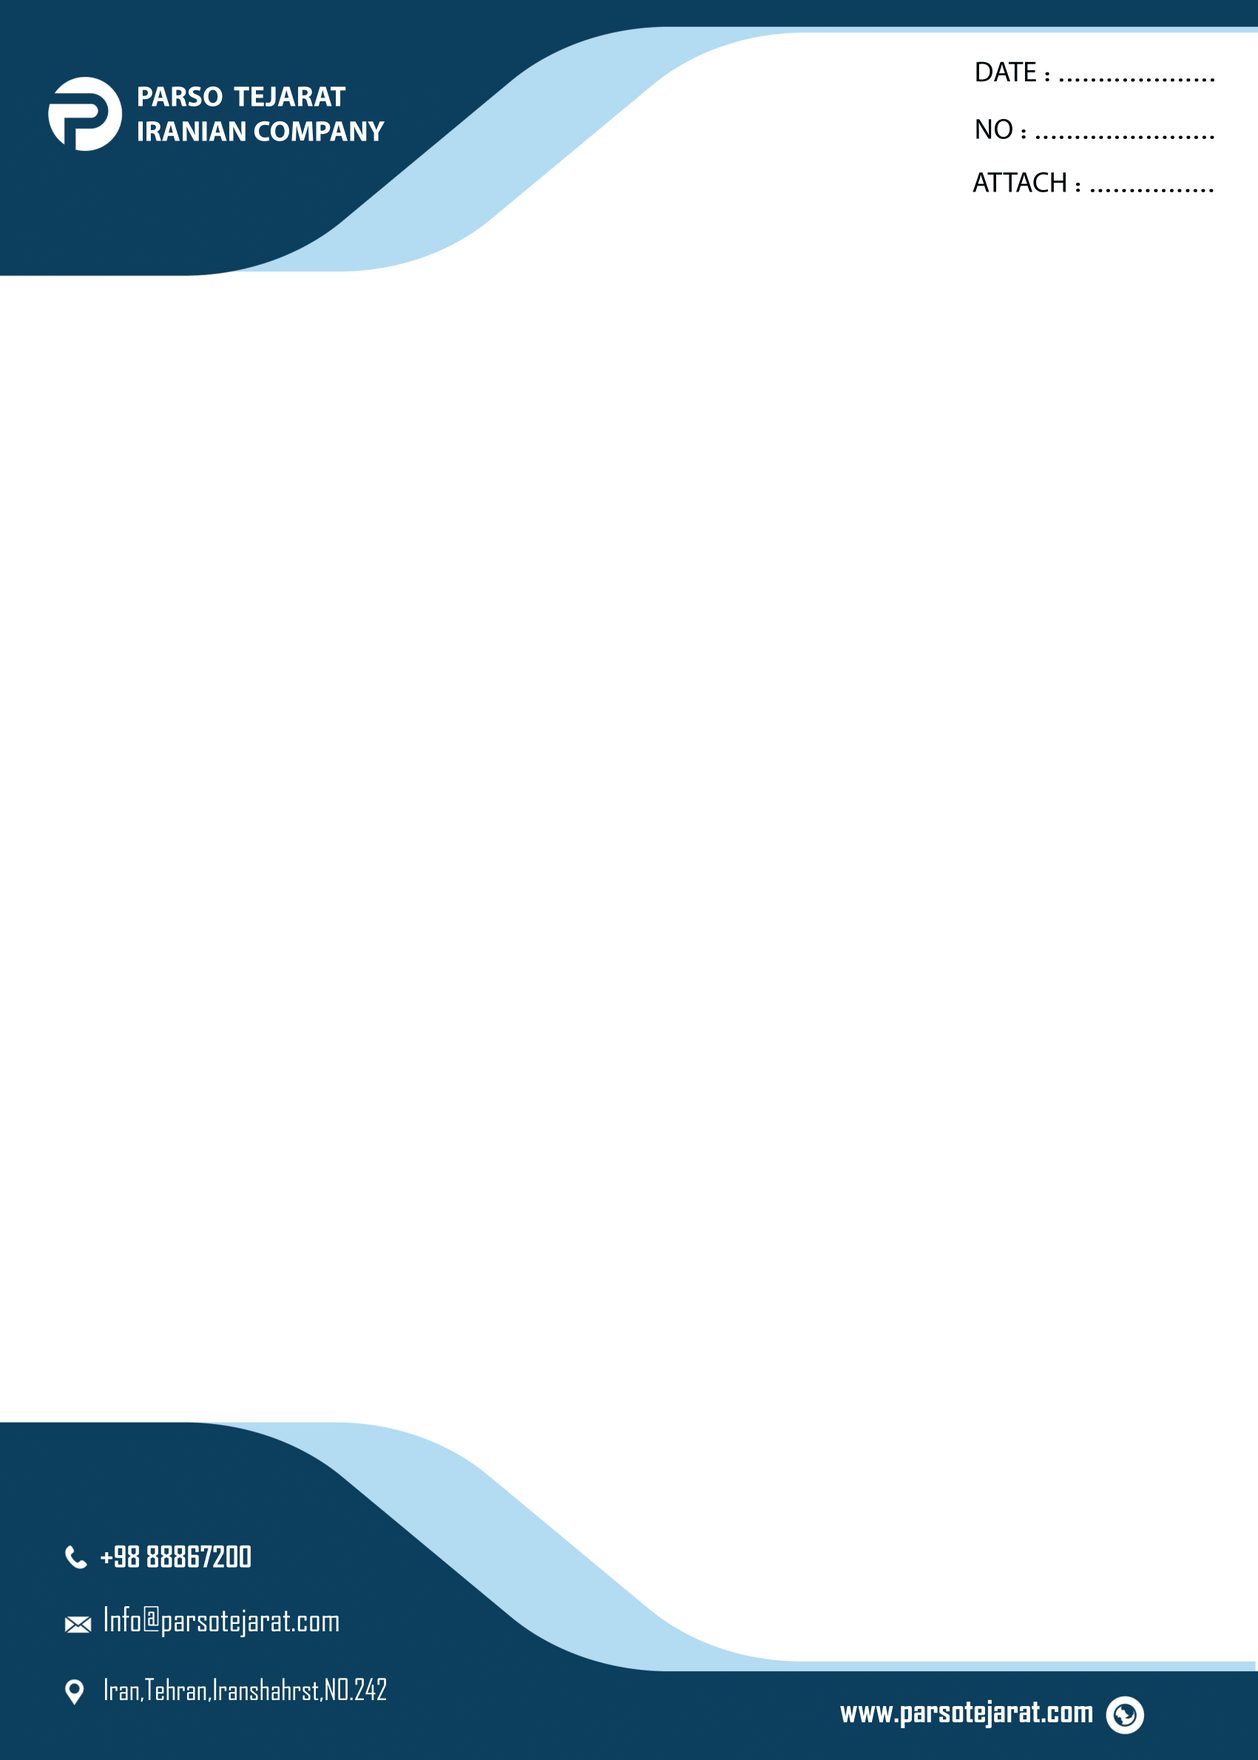
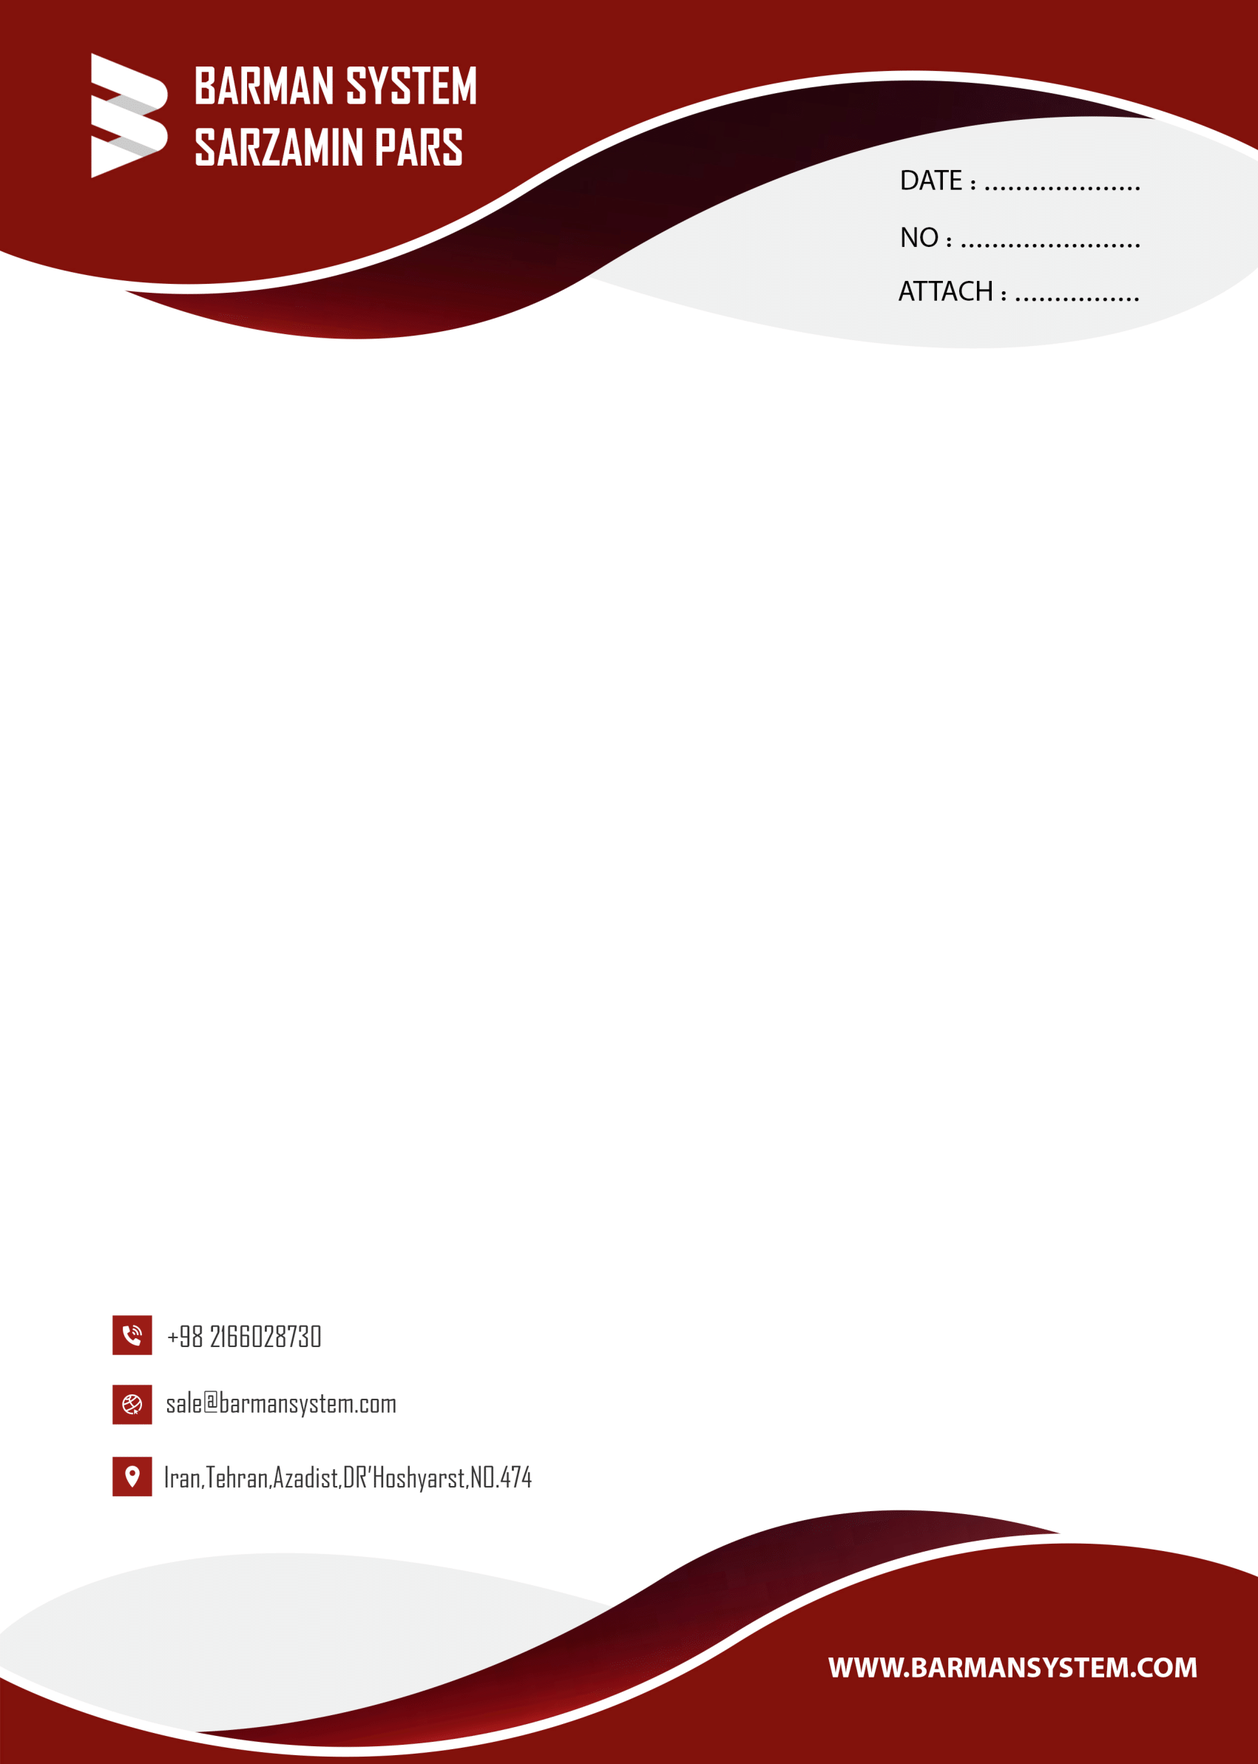
add-some-changes

Changed region(s): [[0.0, 0.7462, 1.0, 1.0], [0.0, 0.0, 1.0, 0.2176]]

diff --git a/resources/views/panel/indicator/index.blade.php b/resources/views/panel/indicator/index.blade.php
@@ -19,10 +19,25 @@
                         <div class="card-body">
                             <div class="card-title d-flex justify-content-end">
                                 @can('indicator')
-                                    <a href="{{ route('indicator.create') }}" class="btn btn-primary">
+                                    <a href="{{ route('indicator.excel')}}" class="btn btn-success mx-1">
+                                        <i class="fa fa-file-excel mr-2"></i>
+                                        خروجی اکسل
+                                    </a>
+                                    <a href="{{ route('indicator.create') }}" class="btn btn-primary mx-1">
                                         <i class="fa fa-plus mr-2"></i>
                                         ایجاد نامه جدید
                                     </a>
+                                @endcan
+                            </div>
+                            <div class="card-title d-flex justify-content-start">
+                                @can('indicator')
+                                    <form action="{{url('/panel/indicator')}}">
+                                        <div class="input-group">
+                                            <input type="text" name="number" class="form-control"
+                                                   placeholder="شماره نامه">
+                                            <input type="submit" class="btn btn-info" value="جستجو">
+                                        </div>
+                                    </form>
                                 @endcan
                             </div>
                             <div class="table-responsive">
@@ -32,22 +47,40 @@
                                     <tr>
                                         <th>#</th>
                                         <th>عنوان</th>
+                                        <th>خطاب به</th>
                                         <th>شماره نامه</th>
+                                        @if(auth()->user()->isCEO() || auth()->user()->isAdmin())
+                                            <th>ایجاد شده توسط</th>
+                                        @endif
+
                                         <th>تاریخ</th>
                                         {{--                                        @can('coupons-edit')--}}
                                         <th>دانلود</th>
                                         <th>ویرایش</th>
-{{--                                        <th>حذف</th>--}}
+                                        {{--                                        <th>حذف</th>--}}
                                         {{--                                        @endcan--}}
                                     </tr>
                                     </thead>
                                     <tbody>
+                                    @php
+                                        $search = request()->input('number');
+                                    @endphp
                                     @foreach($indicators as $key => $indicator)
                                         <tr>
                                             <td>{{ ++$key }}</td>
 
                                             <td>{{ $indicator->title }}</td>
-                                            <td>{{ $indicator->number?? '---' }}</td>
+                                            <td>{{ $indicator->to??'-' }}</td>
+                                            @php
+                                                $highlightedNumber = $indicator->number ?? '---';
+                                                if ($search) {
+                                                    $highlightedNumber = str_ireplace($search, "<span class='bg-warning'>" . $search . "</span>", $highlightedNumber);
+                                                }
+                                            @endphp
+                                            <td>{!! $highlightedNumber !!}</td>
+                                            @if(auth()->user()->isCEO() || auth()->user()->isAdmin())
+                                                <td>{{ $indicator->user->fullName()}}</td>
+                                            @endif
                                             <td>{{ verta($indicator->created_at)->format('H:i - Y/m/d') }}</td>
                                             {{--                                            @can('coupons-edit')--}}
                                             <td><a class="btn btn-info btn-floating"
@@ -63,13 +96,13 @@
                                             {{--                                            @endcan--}}
                                             {{--                                            @can('coupons-delete')--}}
 
-{{--                                            <td>--}}
-{{--                                                <button class="btn btn-danger btn-floating trashRow"--}}
-{{--                                                        data-url="{{ route('indicator.destroy',$indicator->id) }}"--}}
-{{--                                                        data-id="{{ $indicator->id }}">--}}
-{{--                                                    <i class="fa fa-trash"></i>--}}
-{{--                                                </button>--}}
-{{--                                            </td>--}}
+                                            {{--                                            <td>--}}
+                                            {{--                                                <button class="btn btn-danger btn-floating trashRow"--}}
+                                            {{--                                                        data-url="{{ route('indicator.destroy',$indicator->id) }}"--}}
+                                            {{--                                                        data-id="{{ $indicator->id }}">--}}
+                                            {{--                                                    <i class="fa fa-trash"></i>--}}
+                                            {{--                                                </button>--}}
+                                            {{--                                            </td>--}}
                                             {{--                                            @endcan--}}
                                         </tr>
                                     @endforeach

diff --git a/resources/views/panel/indicator/edit.blade.php b/resources/views/panel/indicator/edit.blade.php
@@ -70,20 +70,13 @@
                                         <label for="attachment" class="form-label">سربرگ</label>
                                         <select name="header" class="form-control" id="header">
                                             <option value="info" {{$indicator->header=='info'?'selected':''}}>سربرگ
-                                                فارسی پرسو
-                                                تجارت
-                                                (Info)
+                                                سربرگ فارسی بارمان سیستم (Info)
                                             </option>
                                             <option value="sale" {{$indicator->header=='sale'?'selected':''}}>سربرگ
-                                                فارسی پرسو
-                                                تجارت
-                                                (Sale)
+                                                سربرگ فارسی پرسو تجارت (Sale)
                                             </option>
                                             <option value="english" {{$indicator->header=='english'?'selected':''}}>
-                                                سربرگ
-                                                انگلیسی پرسو
-                                                تجارت
-                                                انگلیسی پرسو تجارت
+                                                سربرگ انگلیسی بارمان سیستم
                                             </option>
                                         </select>
                                         @error('header')
@@ -100,6 +93,14 @@
                                                         @if(in_array($user->id,$receivers)) selected @endif>{{$user->name.' '.$user->family}}</option>
                                             @endforeach
                                         </select>
+                                    </div>
+                                    <div class="mb-2 col-xl-3 col-lg-3 col-md-3">
+                                        <label for="attachment" class="form-label">خطاب به</label>
+                                        <input type="text" class="form-control" name="to" id="to"
+                                               value="{{ old('to',$indicator->to) }}">
+                                        @error('to')
+                                        <div class="invalid-feedback text-danger d-block">{{ $message }}</div>
+                                        @enderror
                                     </div>
                                 </div>
                                 <div class="row">

diff --git a/app/Exports/IndicatorsExport.php b/app/Exports/IndicatorsExport.php
@@ -1,0 +1,87 @@
+<?php
+
+namespace App\Exports;
+
+use App\Models\Indicator;
+use App\Models\Product;
+use Maatwebsite\Excel\Concerns\FromCollection;
+use Maatwebsite\Excel\Concerns\ShouldAutoSize;
+use Maatwebsite\Excel\Concerns\WithEvents;
+use Maatwebsite\Excel\Concerns\WithHeadings;
+use Maatwebsite\Excel\Concerns\WithMapping;
+use Maatwebsite\Excel\Concerns\WithStyles;
+use Maatwebsite\Excel\Events\AfterSheet;
+use PhpOffice\PhpSpreadsheet\Style\Alignment;
+use PhpOffice\PhpSpreadsheet\Style\Color;
+use PhpOffice\PhpSpreadsheet\Style\Fill;
+use PhpOffice\PhpSpreadsheet\Worksheet\Worksheet;
+
+class IndicatorsExport implements FromCollection, WithMapping, WithHeadings, WithStyles, WithEvents, ShouldAutoSize
+{
+    /**
+     * @return \Illuminate\Support\Collection
+     */
+    public function collection()
+    {
+        if (auth()->user()->isCEO() || auth()->user()->isAdmin()) {
+            return Indicator::all();
+        } else {
+            return Indicator::where(['user_id' => auth()->id()])->get();
+        }
+
+    }
+
+    public function map($indicator): array
+    {
+        return [
+            $indicator->number,
+            $indicator->title,
+            $indicator->to,
+            verta($indicator->date)->format('H:i - Y/m/d'),
+            verta($indicator->created_at)->format('H:i - Y/m/d'),
+        ];
+    }
+
+    public function registerEvents(): array
+    {
+        return [
+            AfterSheet::class => function (AfterSheet $event) {
+                $sheet = $event->sheet->getDelegate();
+
+                $sheet->setRightToLeft(true)
+                    ->getStyle('A1:XFD1048576')
+                    ->getAlignment()
+                    ->setHorizontal(Alignment::HORIZONTAL_CENTER);
+
+                $sheet->getStyle('A1:XFD1048576')->getFont()->setName('B Nazanin');
+
+//                $event->sheet->mergeCells('B1:C1');
+            },
+        ];
+    }
+
+    public function headings(): array
+    {
+        return [
+            'A' => 'شماره نامه',
+            'B' => 'عنوان',
+            'C' => 'خطاب به',
+            'D' => 'تاریخ',
+            'E' => 'زمان ایجاد',
+        ];
+    }
+
+    public function styles(Worksheet $sheet)
+    {
+        $sheet->getStyle('A1:E1')->applyFromArray([
+            'fill' => [
+                'fillType' => Fill::FILL_SOLID,
+                'startColor' => ['rgb' => '0096d6']
+            ]
+        ])->getFont()->setColor(Color::indexedColor(2));
+
+        return [
+            1 => ['font' => ['bold' => true]],
+        ];
+    }
+}

diff --git a/app/Http/Controllers/Panel/IndicatorController.php b/app/Http/Controllers/Panel/IndicatorController.php
@@ -11,14 +11,28 @@ use Hekmatinasser\Verta\Verta;
 use Illuminate\Http\Request;
 use Illuminate\Support\Facades\Auth;
 use Illuminate\Support\Facades\Notification;
+use Maatwebsite\Excel\Facades\Excel;
 use PDF as PDF;
 
 class IndicatorController extends Controller
 {
     public function index()
     {
-        $indicators = Indicator::where('user_id', auth()->id())->latest()->paginate(30);
-        return view('panel.indicator.index', compact(['indicators']));
+        $indicators = Indicator::query();
+
+        if (auth()->user()->isCEO() || auth()->user()->isAdmin()) {
+            if (request()->input('number')) {
+                $indicators->where('number', 'LIKE', '%' . request()->input('number') . '%');
+            }
+        } else {
+            $indicators->where('user_id', auth()->id());
+            if (request()->input('number')) {
+                $indicators->where('number', 'LIKE', '%' . request()->input('number') . '%');
+            }
+        }
+
+        $indicators = $indicators->latest()->paginate(30);
+        return view('panel.indicator.index', compact('indicators'));
     }
 
 
@@ -37,6 +51,7 @@ class IndicatorController extends Controller
         $Indicator->attachment = $request->attachment;
         $Indicator->header = $request->header;
         $Indicator->text = $request->text;
+        $Indicator->to = $request->to;
         $Indicator->user_id = auth()->id();
         $Indicator->save();
 
@@ -79,6 +94,7 @@ class IndicatorController extends Controller
         $indicator->attachment = $request->attachment;
         $indicator->header = $request->header;
         $indicator->text = $request->text;
+        $indicator->to = $request->to;
         $indicator->save();
         $indicator->users()->sync($request->receiver);
         if (!is_null($request->receiver)) {
@@ -137,6 +153,10 @@ class IndicatorController extends Controller
         return view('panel.indicator.inbox', compact(['inbox']));
     }
 
+    public function exportExcelIndicator()
+    {
+        return Excel::download(new \App\Exports\IndicatorsExport, 'indicator.xlsx');
+    }
 
     public function exportPdfInfoPersian($title, $text, $date, $number, $attachment)
     {

diff --git a/resources/views/panel/indicator/create.blade.php b/resources/views/panel/indicator/create.blade.php
@@ -70,9 +70,9 @@
                                     <div class="mb-2 col-xl-3 col-lg-3 col-md-3">
                                         <label for="attachment" class="form-label">سربرگ</label>
                                         <select name="header" class="form-control" id="header">
-                                            <option value="info">سربرگ فارسی پرسو تجارت (Info)</option>
-                                            <option value="sale">سربرگ فارسی پرسو تجارت (Sale)</option>
-                                            <option value="english">سربرگ انگلیسی پرسو تجارت</option>
+                                            <option value="info">سربرگ فارسی بارمان سیستم (Info)</option>
+                                            <option value="sale">سربرگ فارسی بارمان سیستم (Sale)</option>
+                                            <option value="english">سربرگ انگلیسی بارمان سیستم</option>
                                         </select>
                                         @error('header')
                                         <div class="invalid-feedback text-danger d-block">{{ $message }}</div>
@@ -86,6 +86,14 @@
                                             @endforeach
                                         </select>
 
+                                    </div>
+                                    <div class="mb-2 col-xl-3 col-lg-3 col-md-3">
+                                        <label for="attachment" class="form-label">خطاب به</label>
+                                        <input type="text" class="form-control" name="to" id="attachment"
+                                               value="{{ old('to') }}">
+                                        @error('to')
+                                        <div class="invalid-feedback text-danger d-block">{{ $message }}</div>
+                                        @enderror
                                     </div>
                                 </div>
                                 <div class="row">

diff --git a/resources/views/panel/tickets/edit.blade.php b/resources/views/panel/tickets/edit.blade.php
@@ -104,7 +104,7 @@
                                             <div class="conversation-text">
                                                 <div class="ctext-wrap">
                                                     <i>{{ $message['user']['name'].' '. $message['user']['family'] }}</i>
-                                                    <p>{{ $message['text'] }}</p>
+                                                    <p>{!! nl2br(e($message['text'])) !!}</p>
                                                     <hr class="my-0 mt-2">
                                                     <i class="text-muted">{{ verta($message['created_at'])->timezone('Asia/Tehran')->format('H:i - Y/m/d') }}</i>
                                                 </div>
@@ -152,7 +152,7 @@
                                             <div class="conversation-text">
                                                 <div class="ctext-wrap">
                                                     <i>{{ $message['user']['name'].' '. $message['user']['family'] }}</i>
-                                                    <p>{{ $message['text'] }}</p>
+                                                    <p>{!! nl2br(e($message['text'])) !!}</p>
                                                     <hr class="my-0 mt-2">
                                                     <i class="text-muted">{{ verta($message['created_at'])->format('H:i - Y/m/d') }}</i>
                                                 </div>

diff --git a/routes/web.php b/routes/web.php
@@ -113,6 +113,8 @@ Route::middleware(['auth','web'])->prefix('/panel')->group(function () {
     Route::get('indicator/inbox', [IndicatorController::class, 'inbox'])->name('indicator.inbox')->middleware('can:indicator');
     //    Route::post('/export-indicator-pdf', [IndicatorController::class, 'exportToPdf'])->middleware('can:indicator');
     Route::get('download/indicator/{id}', [IndicatorController::class, 'downloadFromIndicator'])->name('indicator.download')->middleware('can:indicator');
+    Route::get('export/excel/indicators', [IndicatorController::class, 'exportExcelIndicator'])->name('indicator.excel')->middleware('can:indicator');
+
 
     //PaymentsOrder
     Route::resource('payments_order', PaymentOrderController::class)->except('show');

diff --git a/database/migrations/2024_09_11_125013_edit_indicator_table.php b/database/migrations/2024_09_11_125013_edit_indicator_table.php
@@ -1,0 +1,32 @@
+<?php
+
+use Illuminate\Database\Migrations\Migration;
+use Illuminate\Database\Schema\Blueprint;
+use Illuminate\Support\Facades\Schema;
+
+class EditIndicatorTable extends Migration
+{
+    /**
+     * Run the migrations.
+     *
+     * @return void
+     */
+    public function up()
+    {
+        Schema::table('indicators', function (Blueprint $table) {
+            $table->string('to')->after('date')->nullable();
+        });
+    }
+
+    /**
+     * Reverse the migrations.
+     *
+     * @return void
+     */
+    public function down()
+    {
+        Schema::table('indicators', function (Blueprint $table) {
+            $table->dropColumn('to');
+        });
+    }
+}

diff --git a/app/Models/Indicator.php b/app/Models/Indicator.php
@@ -16,4 +16,8 @@ class Indicator extends Model
     {
         return $this->belongsToMany(User::class);
     }
+    public function user()
+    {
+        return $this->belongsTo(User::class);
+    }
 }
